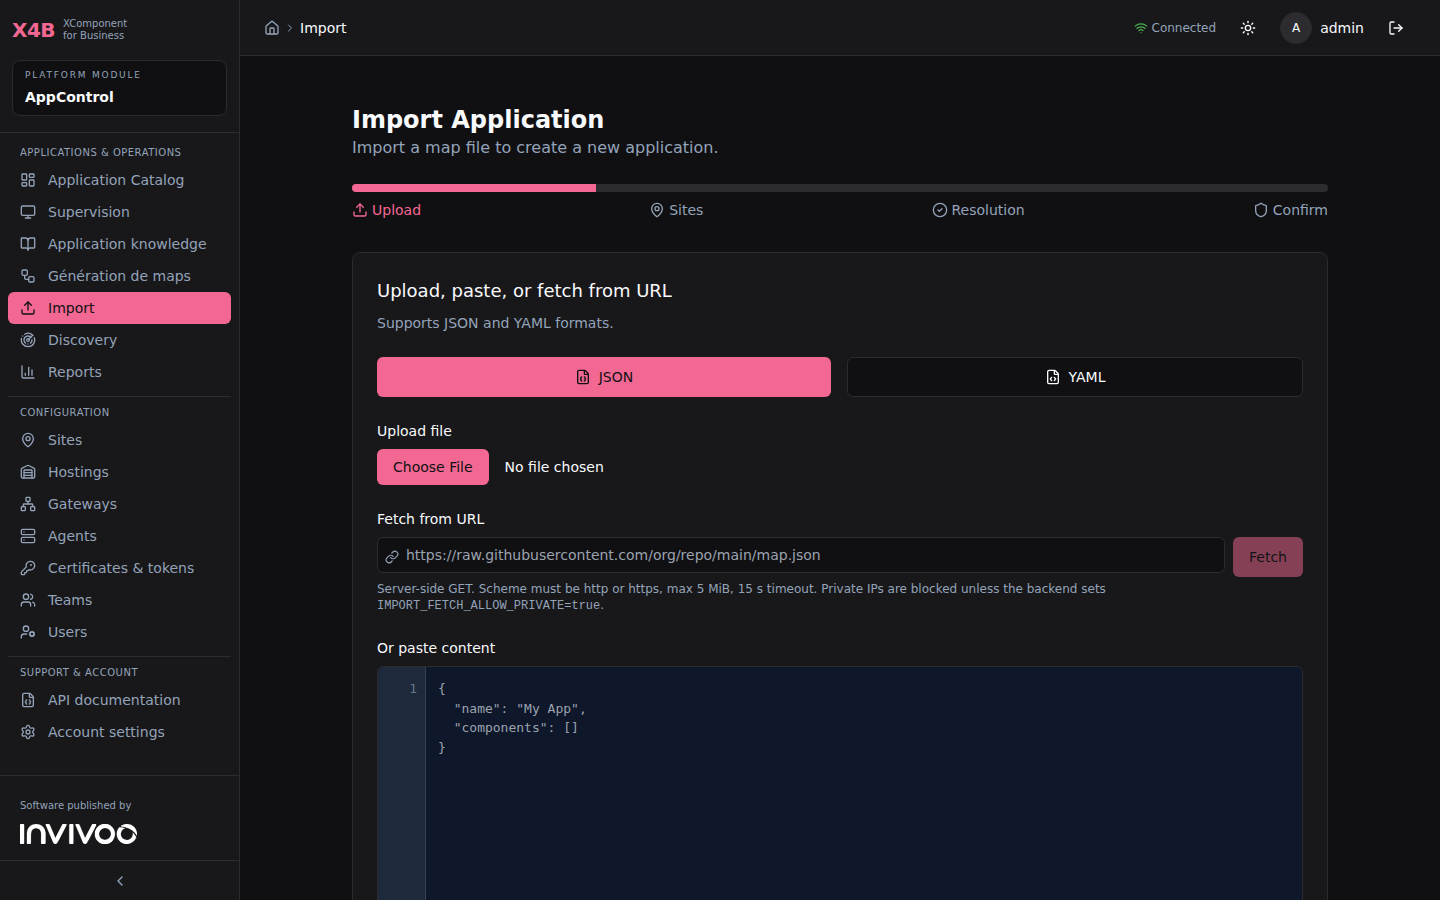
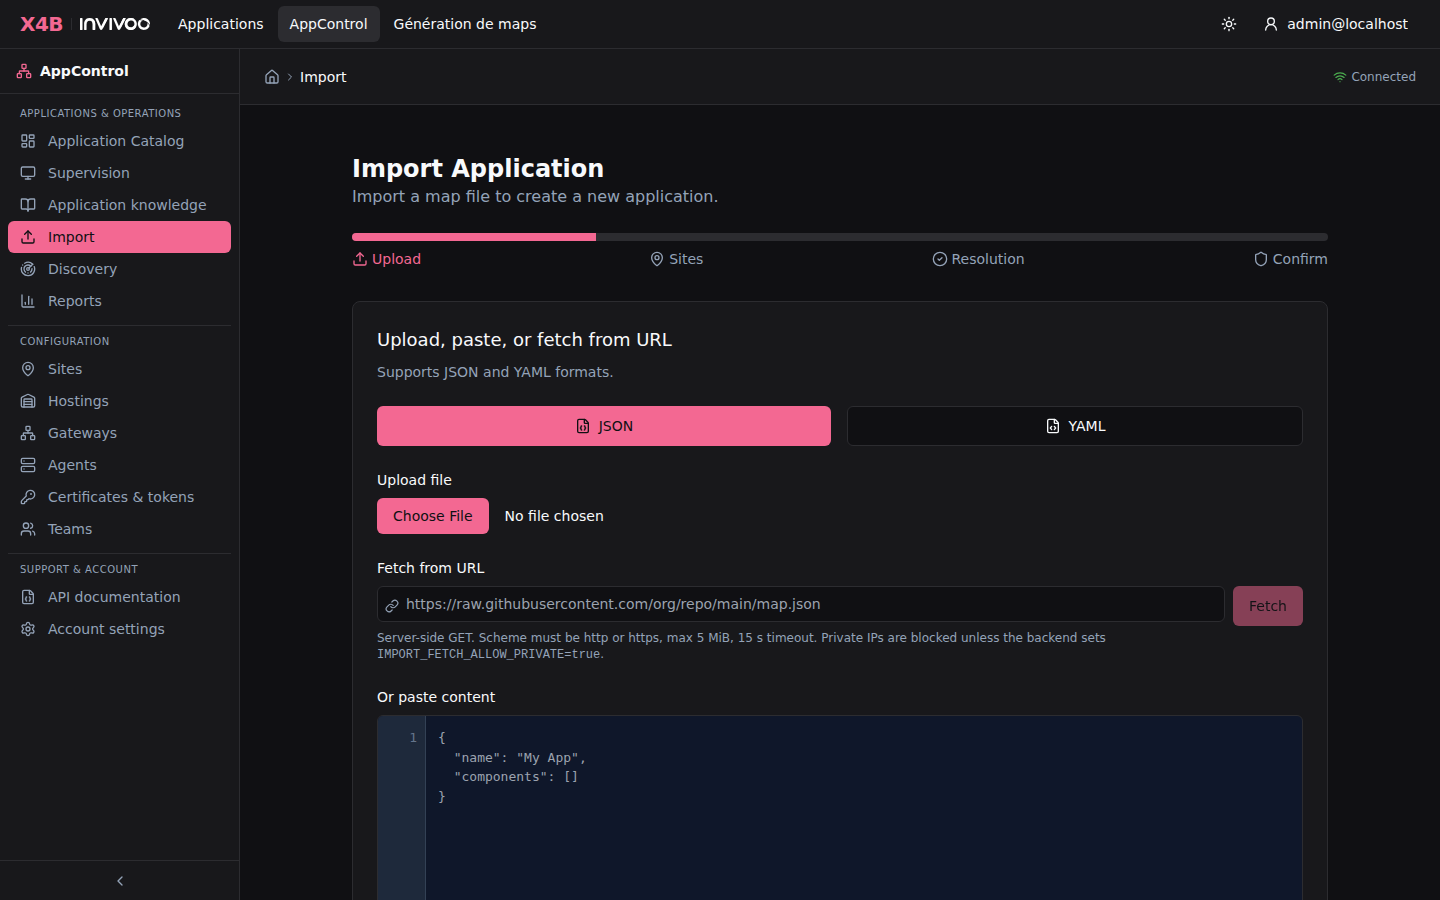
Release v1.24.1 — docs, scripts, examples

diff --git a/docs/X4B-PLATEFORME.fr.md b/docs/X4B-PLATEFORME.fr.md
@@ -1,0 +1,49 @@
+# X4B — Raccorder une application
+
+X4B, édité par Invivoo, réunit AppControl, Génération de maps et les applications enregistrées. L’accueil est à `/x4b`. Le menu du compte donne accès à **Comptes et accès** et **Applications raccordées** pour les administrateurs. AppControl conserve ses liens directs, notamment `/apps/<id>`.
+
+## Comptes et accès
+
+L’administrateur réutilise les comptes locaux AppControl. Les comptes existants gardent leur accès AppControl après mise à jour. Les nouveaux comptes créés dans X4B reçoivent les accès choisis dans l’administration. La génération et la publication par lots restent réservées aux administrateurs dans cette version. Les autorisations AppControl sur les maps, les sites et les opérations s’appliquent en plus de l’accès au module.
+
+Pour un POC avec Panoramisk, créer un compte administrateur de revue et un compte de consultation. Donner à ce dernier accès à Panoramisk, puis un droit de lecture sur la map et les sites nécessaires, dont le site de simulation. Le compte peut ouvrir une simulation isolée. Les opérations sur une map réelle nécessitent les droits d’exploitation AppControl.
+
+## Intégration Panoramisk
+
+1. Conserver les URL HTTPS de Panoramisk et d’AppControl. L’accueil X4B peut utiliser le même hôte qu’AppControl avec le chemin `/x4b`.
+2. Dans **Applications raccordées**, enregistrer `panoramisk`. Pour l’hôte de référence, utiliser `https://panoramisk.example.test/` comme URL d’entrée et `https://panoramisk.example.test/x4b/callback` comme URL de retour, avec le domaine réel de l’hôte. Copier le secret affiché à la création dans le gestionnaire de secrets du serveur Panoramisk.
+3. Protéger les fiches et les API Panoramisk avec la session X4B. Lors d’un accès direct, conserver le chemin de la fiche côté serveur, effectuer l’échange d’autorisation et revenir à ce chemin. Le serveur Panoramisk vérifie aussi ses propres droits de consultation de fiche. Voir [le contrat d’accès](X4B-ACCESS.fr.md).
+4. Ajouter les composants à la mise en page et à la fiche. Le serveur Panoramisk expose les routes locales ci-dessous. Les données d’identité restent sur les canaux serveur à serveur.
+
+```html
+<script defer src="https://appcontrol.example.test/x4b-portal.js"></script>
+<script defer src="https://appcontrol.example.test/appcontrol-embedded.js"></script>
+<x4b-shell module="panoramisk" platform-url="https://appcontrol.example.test"></x4b-shell>
+<appcontrol-status endpoint="/fiches/PAI-042/status"></appcontrol-status>
+<appcontrol-map backend-url="https://appcontrol.example.test"></appcontrol-map>
+```
+
+| Route Panoramisk | Appel serveur X4B/AppControl |
+| --- | --- |
+| `GET /x4b/session` | `POST /api/v1/x4b/session` retourne le compte et ses entrées de navigation. |
+| `POST /x4b/logout` | `POST /api/v1/x4b/session/revoke` révoque la session partagée, puis Panoramisk efface sa session locale. Vérifier l’origine du POST. |
+| `GET /fiches/<id>/status` | `POST /api/v1/x4b/embedded/status` avec `credentials` et `source_id`. Renvoie l’état agrégé, la dernière observation et l’indicateur de fraîcheur. Une map absente ou non autorisée donne `404`. |
+| `POST /fiches/<id>/simulation` | `POST /api/v1/x4b/embedded/simulation` avec les mêmes champs et éventuellement `simulation_site_id`. Affecter la réponse à la propriété JavaScript `session` du composant map. Vérifier l’origine du POST. |
+
+Pour les deux routes Embedded, `credentials` contient `client_id`, `client_secret` et `session_token`. La source de la map est résolue par `source_reference.system` égal à la clé du module et `source_reference.id` égal à l’identifiant de la fiche. La configuration [AppControl Embedded](EMBEDDED.fr.md) déclare en plus l’origine Panoramisk et le site de simulation. Le jeton de simulation reste court et suit la validité de la session X4B qui l’a demandé.
+
+Pour les maps générées depuis Panoramisk, renseigner `X4B_KNOWLEDGE_SOURCE=panoramisk` dans le Secret de source documentaire OpenShift. L’`application_key` exposée par le connecteur doit correspondre à l’identifiant utilisé sur la fiche, par exemple `PAI-042`.
+
+Le badge actualise les données toutes les 15 secondes quand la page est visible. Autoriser l’hôte AppControl dans `script-src`, `style-src` et `frame-src` du portail. Le navigateur interroge les routes Panoramisk sous sa propre origine.
+
+L’hôte de référence `demo-rebuild/embedded/x4b_host.py` contient deux fiches fictives, dont `PAI-042`. Il est livré dans l’archive [demo-rebuild.tar.gz de la release](https://github.com/xcomponent/appcontrol-release/releases/download/v1.24.1/demo-rebuild.tar.gz). Le placer derrière un proxy HTTPS qui transmet le `Host` public. Configurer `X4B_URL=https://appcontrol.example.test`, `X4B_HOST_ORIGIN=https://panoramisk.example.test` et `X4B_MODULE_KEY=panoramisk` avec les valeurs de l’installation, puis injecter le secret client dans `X4B_CLIENT_SECRET`. Si plusieurs sites de simulation sont configurés, préciser `X4B_SIMULATION_SITE_ID`. L’hôte écoute en boucle locale sur le port `8081` par défaut. Le modèle de production doit s’appuyer sur les sessions du framework Panoramisk et vérifier les droits de chaque fiche.
+
+Si le certificat de X4B est signé par une autorité interne, configurer `X4B_CA_FILE` avec la chaîne de confiance PEM sur le serveur de l’hôte de référence. Le navigateur doit lui aussi faire confiance à l’autorité utilisée par les deux sites.
+
+## Catalogue complet et génération
+
+Le catalogue appartient à AppControl. Les entrées acceptent `match_terms` (ou `keys` sur les exports existants). Le kit Windows envoie les entrées par lots. Chaque lot respecte les limites de la requête, sans plafond total sur le catalogue configuré. Pour enrichir une entrée déjà importée, utiliser le mode `upsert` de l’API catalogue avec une prévisualisation `dry_run` puis l’`expected_digest` obtenu. Le kit Windows conserve le mode ajout pour préserver les entrées existantes.
+
+Quand le catalogue est renseigné, X4B demande d’abord à l’IA du client les termes observés dans le document. X4B recherche ces termes dans toutes les entrées du catalogue. Le second appel utilise la même révision du document et reçoit les candidats par composant. Les commandes et variables du catalogue ne sont pas envoyées au moteur de génération. La revue indique les rapprochements ambigus et inconnus, avec les candidats trouvés. Ces propositions nécessitent une confirmation individuelle. Une modification du catalogue rend caduques les propositions fondées sur son état antérieur.
+
+Le contrat [Knowledge Engine](KNOWLEDGE-ENGINE-CONNECTOR.fr.md) est conservé. Le point de terminaison `prompt-executions` doit pouvoir appliquer le prompt reçu, y compris quand le résultat demandé est un inventaire de composants. Le moteur de génération reste celui du client.

diff --git a/docs/security-reports/SECURITY-ASSURANCE-REPORT-v1.24.1.md b/docs/security-reports/SECURITY-ASSURANCE-REPORT-v1.24.1.md
@@ -1,8 +1,8 @@
-# AppControl v1.23.1 — release qualification report
+# AppControl v1.24.1 — release qualification report
 
-Generated: 2026-11-11T18:40:40.703546+00:00
-Source commit: `3cfc094fe33acc87a2b4f188456fdd3d8c1ec0f0`
-Release workflow: https://github.com/fredericcarre/appcontrol/actions/runs/43071954669
+Generated: 2026-11-12T23:21:15.677149+00:00
+Source commit: `4d56a844b1b4efd925c2794c18c556c5a1dd3db7`
+Release workflow: https://github.com/fredericcarre/appcontrol/actions/runs/43318378407
 
 ## Scope and result
 
@@ -13,22 +13,22 @@ The OpenShift client kit targets Linux amd64. Its five images are backend, front
 ## Vulnerability scans and inventories
 
 Trivy 0.76.1 scans OS and application packages at all severities (UNKNOWN, LOW, MEDIUM, HIGH, CRITICAL), including unfixed advisories. Image scans use comprehensive detection. A scan with missing inventory, known vulnerabilities or suppressed findings fails the release. Each image has its own CycloneDX SBOM. The locked Rust and npm dependencies have an additional SBOM including development dependencies.
-Source vulnerability database updated: 2026-11-11T13:00:47.186797699Z. Per-image scanner metadata records the database used for that scan.
+Source vulnerability database updated: 2026-11-12T18:57:38.498853214Z. Per-image scanner metadata records the database used for that scan.
 
 | Image | Delivered immutable reference | Findings | Scan timestamp |
 |---|---|---:|---|
-| backend | `ghcr.io/fredericcarre/appcontrol-backend@sha256:bff2a1700a3d717ce6c9fe0b3a99e38dcf8eeaf302865b40c60f15b9955b8ce3` | 0 | 2026-11-11T18:27:49.782657336Z |
-| frontend | `ghcr.io/fredericcarre/appcontrol-frontend@sha256:5a562c8f84c00139c501f09631be9b9e4c34d68063664513c9ea3d125d4c9532` | 0 | 2026-11-11T18:27:54.572970567Z |
-| gateway | `ghcr.io/fredericcarre/appcontrol-gateway@sha256:bb2cb9acfaa8fcd086da69c64abf78569881216a1c8d5fa5249f529ff23ce906` | 0 | 2026-11-11T18:27:56.230661909Z |
-| agent | `ghcr.io/fredericcarre/appcontrol-agent@sha256:85446a778d1ab65611c286f81ab88e07e70c27cbe95dabc728ed5131769264ff` | 0 | 2026-11-11T18:27:51.419086379Z |
-| postgresql | `ghcr.io/fredericcarre/appcontrol-postgresql@sha256:8e392b4ac772e1d7f1ead4600c2e7c82b15cd7cd88ef0629ec79d077cb605862` | 0 | 2026-11-11T18:27:58.713265911Z |
-| init-certs | `ghcr.io/fredericcarre/appcontrol-init-certs@sha256:564a6b273aac3876cd75e49d214961f5cffba1b22d0e6a4f5edcd95ce455bbb5` | 0 | 2026-11-11T18:27:53.863416795Z |
-| azure-gateway | `ghcr.io/fredericcarre/appcontrol-azure-gateway@sha256:ad3a9ec380ad167a92665b53f5261b03ff158f45cd2ceec83c72297b063b47de` | 0 | 2026-11-11T18:27:56.266176088Z |
+| backend | `ghcr.io/fredericcarre/appcontrol-backend@sha256:1e78baf0002af142cbdba6a57ee4703643477d980e208917bca5fc85bbe2a37d` | 0 | 2026-11-12T23:05:28.871559135Z |
+| frontend | `ghcr.io/fredericcarre/appcontrol-frontend@sha256:9c6f432d8eee861dd9b58298d8d0b6fa408112d604a84a1ea263d8b3677b2174` | 0 | 2026-11-12T23:05:36.286395779Z |
+| gateway | `ghcr.io/fredericcarre/appcontrol-gateway@sha256:433b8612a1de429003da95c9bd5aaa6c0e4bb05db97877e6a2566cd087077236` | 0 | 2026-11-12T23:05:32.615164795Z |
+| agent | `ghcr.io/fredericcarre/appcontrol-agent@sha256:92a4b838c1edb70d5be900e1ce08db1293405ed224fa8cf7a6833406457f5534` | 0 | 2026-11-12T23:05:33.943443564Z |
+| postgresql | `ghcr.io/fredericcarre/appcontrol-postgresql@sha256:98c940a895a9dc13c22b3ec95f0a5368801c0391a66480a521ed7548a29be90a` | 0 | 2026-11-12T23:05:35.574809154Z |
+| init-certs | `ghcr.io/fredericcarre/appcontrol-init-certs@sha256:13ce79ced59562307eb09b695ffcd74d0bcf0401ad43d3fd03879d452e45b08c` | 0 | 2026-11-12T23:05:30.135243203Z |
+| azure-gateway | `ghcr.io/fredericcarre/appcontrol-azure-gateway@sha256:76cdbfbda363d348bea0345e2f3e32bfdccfb41efffd667ec8498bb57ea514bd` | 0 | 2026-11-12T23:05:39.095854304Z |
 
 | Dependency scope | Inputs | Findings | Scan timestamp |
 |---|---|---:|---|
-| Production dependencies | Cargo.lock + frontend/package-lock.json | 0 | 2026-11-11T17:51:09.280320289Z |
-| Production and development dependencies | Cargo.lock + frontend/package-lock.json | 0 | 2026-11-11T17:51:22.102433376Z |
+| Production dependencies | Cargo.lock + frontend/package-lock.json | 0 | 2026-11-12T22:17:09.893167544Z |
+| Production and development dependencies | Cargo.lock + frontend/package-lock.json | 0 | 2026-11-12T22:17:21.871669284Z |
 
 RustSec: zero vulnerability advisories. Informational warnings, if any, remain in rustsec.json and are not reclassified as vulnerabilities.
 RustSec warning categories: unmaintained: 2, unsound: 1, yanked: 1.

diff --git a/docs/X4B-ACCESS.fr.md b/docs/X4B-ACCESS.fr.md
@@ -1,0 +1,59 @@
+# Comptes et accès X4B
+
+X4B réutilise les comptes locaux AppControl. L’administration des comptes attribue
+les modules visibles et accessibles pour chaque personne. Les comptes existants
+conservent leur accès AppControl jusqu’à la première modification explicite de
+leurs accès. Un compte non administrateur créé dans X4B commence sans module.
+Les droits sur les maps, les équipes et les opérations restent gérés dans AppControl.
+La génération de maps est accessible aux administrateurs de l’organisation.
+
+## Raccorder une application externe
+
+1. Enregistrez son identifiant, son nom, son URL d’entrée et son URL de retour dans
+   l’administration X4B. Les deux URL doivent utiliser la même origine HTTPS.
+   X4B présente le secret client une seule fois. Conservez-le côté serveur, par
+   exemple dans un Secret OpenShift, et configurez le serveur hôte avec l’URL
+   publique de X4B. Pour l’hôte de référence, l’URL d’entrée est
+   `https://panoramisk.example.test/` et l’URL de retour est
+   `https://panoramisk.example.test/x4b/callback`. Remplacez le domaine par celui
+   de votre hôte.
+2. Accordez l’accès à une personne dans « Comptes et accès ». Cet accord couvre
+   uniquement le module. Ajoutez les droits AppControl sur les maps qui doivent
+   apparaître dans la fiche de l’application externe.
+3. Vérifiez le lien direct vers une fiche, les accès refusés, le retour à la fiche
+   après connexion et la déconnexion. Protégez les pages et les API du module
+   externe avec son adaptateur, y compris lorsqu’elles sont ouvertes directement.
+
+Utilisez l’identifiant du module comme système de référence des maps pour le badge
+et la simulation. Un module enregistré sous `panoramisk` utilise donc des
+références `{ "system": "panoramisk", "id": "PAI-042" }`.
+
+## Protocole côté serveur
+
+Le serveur hôte crée un état aléatoire et un vérificateur PKCE uniques pour
+chaque tentative. Il conserve ces valeurs et le chemin de retour local dans la
+session temporaire du navigateur. Le chemin de retour doit être validé comme
+chemin de la même origine.
+
+| Appel | Comportement |
+| --- | --- |
+| `GET /api/v1/x4b/authorize?client_id=…&state=…&code_challenge=…` | Le navigateur présente sa session X4B. X4B vérifie le compte et l’accès au module puis renvoie un code et l’état à l’URL de retour enregistrée. La méthode de défi est S256. |
+| `POST /api/v1/x4b/token` | Le serveur hôte vérifie l’état reçu puis envoie le JSON `{client_id,client_secret,code,code_verifier}`. Le code est valable une minute et s’utilise une seule fois. La réponse contient `session_token`, `expires_in` en secondes et `user` avec `user_id` et `email`. |
+| `POST /api/v1/x4b/session` | Le serveur hôte envoie le JSON `{client_id,client_secret,session_token}`. X4B vérifie le compte, l’accès au module, l’expiration et la session X4B d’origine. La réponse contient `user` et `modules`. |
+| `POST /api/v1/x4b/session/revoke` | Sur déconnexion explicite et protégée du site hôte, le serveur envoie les mêmes champs. X4B révoque la session d’origine et ses sessions associées. |
+
+Les chemins relatifs des modules natifs se résolvent par rapport à l’URL publique
+de X4B configurée sur le serveur hôte. L’accueil X4B et les modules natifs
+partagent cette origine. Panoramisk et les autres modules externes gardent leur
+propre origine. L’adaptateur garde le secret et le jeton de
+session côté serveur et utilise une session hôte distincte. Les jetons de
+simulation Embedded gardent leurs droits et leur durée propres.
+
+Sur une navigation depuis un autre site, le cookie X4B peut être absent de la
+première requête. Dans ce cas, X4B ouvre son écran de connexion puis reprend
+l’autorisation depuis sa propre origine. Le navigateur revient ensuite à la fiche
+conservée par l’adaptateur.
+
+Pour retirer un module, supprimez son inscription. Cette opération révoque ses
+accès et sessions. Pour le raccorder de nouveau, enregistrez-le et configurez le
+nouveau secret côté serveur.

diff --git a/docs/qualification/INSTALLATION-WINDOWS.fr.md b/docs/qualification/INSTALLATION-WINDOWS.fr.md
@@ -8,9 +8,9 @@ léger ne contient **aucune image ni aucun exécutable**. Il n’installe pas `o
 ne modifie pas le PATH du poste. Aucun Helm, Docker, Python, WSL, OpenSSL ou outil
 de transfert d’images n’est nécessaire sur le poste client.
 
-Produit : **AppControl 1.23.1**. Paquet : **Windows léger 1.23.1-1**.
+Produit : **AppControl 1.24.1**. Paquet : **Windows léger 1.24.1-1**.
 
-**AppControl est le module d’exploitation de X4B — XComponent for Business, édité par INVIVOO.** La version 1.23.1 ajoute [AppControl Embedded](../EMBEDDED.fr.md), le [raccordement d’une source documentaire](../KNOWLEDGE-ENGINE-CONNECTOR.fr.md) et le [suivi des certificats et jetons](#echeances-des-certificats-et-jetons). Le kit conserve le choix de l’URL publique, du compte administrateur et du projet, ainsi que le secret de téléchargement des images.
+**AppControl est le module d’exploitation de X4B — XComponent for Business, édité par INVIVOO.** La version 1.24.1 ajoute [l’accueil X4B, les comptes et accès, le badge de supervision et le raccordement des applications](../X4B-PLATEFORME.fr.md). Le module de génération rapproche les composants du catalogue complet. Le kit conserve le choix de l’URL publique, du compte administrateur et du projet, ainsi que le secret de téléchargement des images.
 
 La version 1.21.1 ajoute le contrat de génération pour l'IA du client, la
 publication de maps réparties sur plusieurs sites et l'attribution
@@ -265,14 +265,14 @@ avec `-ModePostgreSQL Externe` et sa chaîne de connexion.
 
 ## 4. Télécharger les petits fichiers de déploiement
 
-- [Paquet Windows léger 1.23.1-1 — scripts et YAML](https://github.com/xcomponent/appcontrol-release/releases/download/v1.23.1/appcontrol-openshift-windows-light-1.23.1-1.zip)
-- [Empreinte SHA-256](https://github.com/xcomponent/appcontrol-release/releases/download/v1.23.1/appcontrol-openshift-windows-light-1.23.1-1.zip.sha256)
+- [Paquet Windows léger 1.24.1-1 — scripts et YAML](https://github.com/xcomponent/appcontrol-release/releases/download/v1.24.1/appcontrol-openshift-windows-light-1.24.1-1.zip)
+- [Empreinte SHA-256](https://github.com/xcomponent/appcontrol-release/releases/download/v1.24.1/appcontrol-openshift-windows-light-1.24.1-1.zip.sha256)
 
 Le ZIP est uniquement un moyen pratique de transporter les fichiers texte.
 Après téléchargement ou transfert approuvé, vérifier l’archive dans PowerShell :
 
 ```powershell
-$archive = 'appcontrol-openshift-windows-light-1.23.1-1.zip'
+$archive = 'appcontrol-openshift-windows-light-1.24.1-1.zip'
 $attendu = ((Get-Content "$archive.sha256" -Raw).Trim() -split '\s+')[0]
 if ((Get-FileHash $archive -Algorithm SHA256).Hash -ne $attendu) {
     throw 'Checksum mismatch: do not use this archive.'
@@ -789,7 +789,7 @@ déployée. Ne pas supprimer son dossier d’état.
 
 ## Qualification et suite du POC
 
-La publication du kit 1.23.1-1 suit sa qualification Windows/OpenShift. Les fichiers `PUBLICATION-EVALUATION-1.23.1-1.json` et `QUALIFICATION-EVALUATION-1.23.1-1.zip` identifient les images et le ZIP de cette recette.
+La publication du kit 1.24.1-1 suit sa qualification Windows/OpenShift. Les fichiers `PUBLICATION-EVALUATION-1.24.1-1.json` et `QUALIFICATION-EVALUATION-1.24.1-1.zip` identifient les images et le ZIP de cette recette.
 
 ### Historique des qualifications
 
@@ -1155,7 +1155,7 @@ le domaine était la cause de l’erreur d’exposition.
 
 ## Démonstration bancaire complète
 
-**Le kit 1.23.1-1 installe automatiquement la démo bancaire lors d’une installation
+**Le kit 1.24.1-1 installe automatiquement la démo bancaire lors d’une installation
 par défaut**, après la vérification technique et l’enrôlement de l’agent Linux.
 Aucune seconde commande n’est nécessaire. `-SansDemo` désactive les deux démonstrations ;
 une mise à jour avec `-MettreAJour` conserve les applications existantes sans en ajouter.
